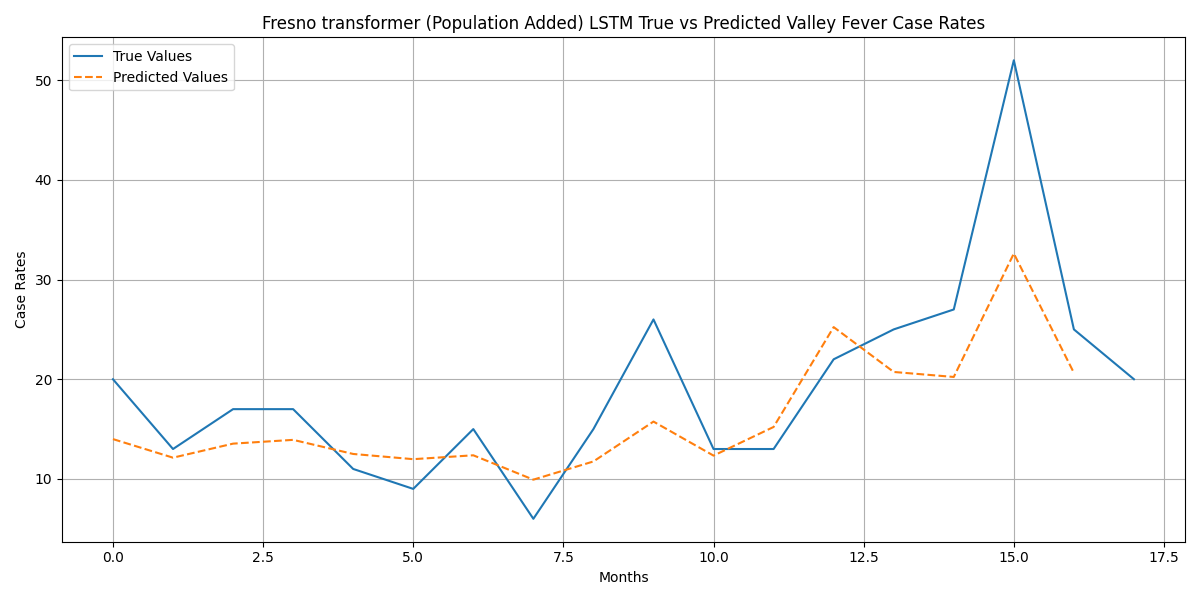
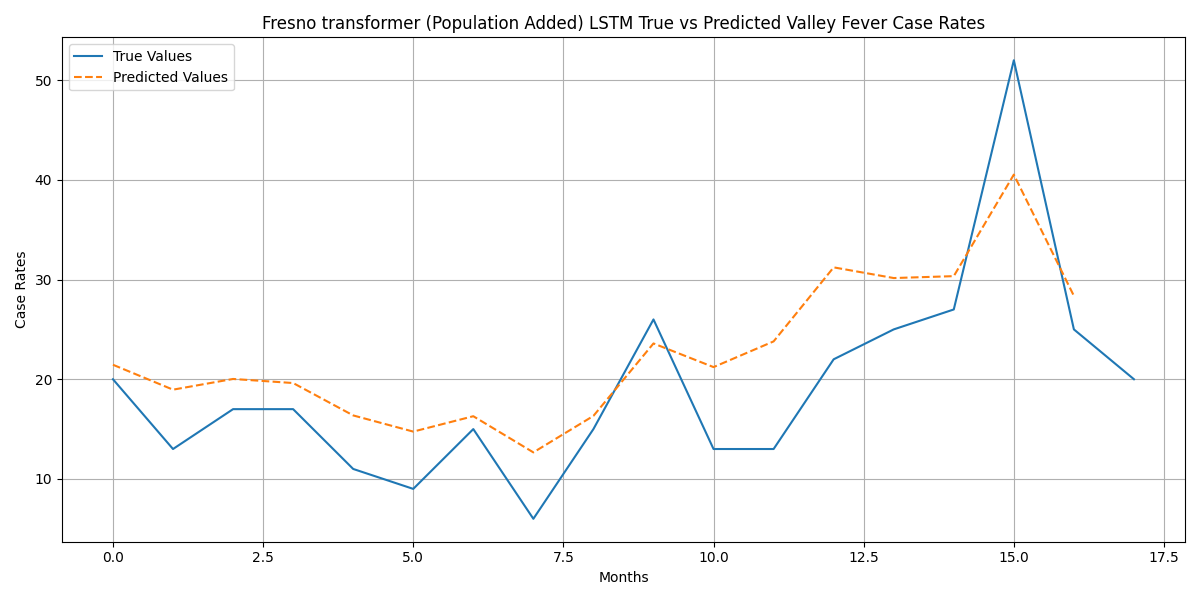
tested code on a few counties to gather plots

diff --git a/Project/code/main.py b/Project/code/main.py
@@ -16,7 +16,7 @@ def main():
   pop2_data_path       = "Project/data/cali_county_pop_2010_2020.csv"
   start_year           = "2006"
   end_year             = "2015"
-  county_name          = "Fresno"
+  county_name          = "Tulare"
   source_column_labels = ['Fire Incident Count', 'VF Case Count', 'Population']
   split_frac           = .85
   lookback             = 6
@@ -28,12 +28,15 @@ def main():
   epochs               = 300
   weight_decay         = 1e-5
   title_text           = "(Population Added)"
-  model_flag           = "lstm"
+  model_flag           = "transformer"
 
   # Transformer Properties
-  d_model         = 32
-  nheads          = 2
-  dim_feedforward = 64
+  if model_flag == "transformer":
+    d_model         = 32
+    nheads          = 2
+    dim_feedforward = 64
+    num_layers      = 1
+    dropout         = 0.2
 
   wf_vf_pop_df = combine_vf_fire_pop_data(pop1_data_path, pop2_data_path, vf_data_path, fire_data_path, county_name,
                                           start_year, end_year, bInterp=False)
